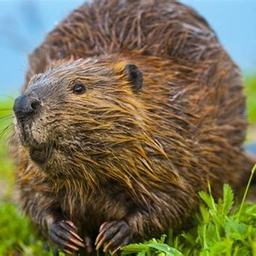
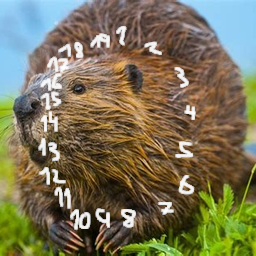
chore: Change generated gif

diff --git a/src/video_generator.cpp b/src/video_generator.cpp
@@ -4,17 +4,19 @@
 
 std::string generate_video(const std::string &f1_path,
                            const std::string &f2_path) {
-  std::string cmd = "ffmpeg -y -loglevel error -nostats "
-                    "-loop 1 -t 7 -i \"" +
-                    f1_path + "\" -i \"" + f2_path +
-                    "\" "
-                    "-filter_complex "
-                    "\"[0:v]rotate='if(lte(t,7),2*PI*t*(1-t/10),2*PI*7*(1-7/"
-                    "10))':c=none:ow=rotw(iw):oh=roth(ih)[r];"
-                    "[r][1:v]overlay=(W-w)/2:(H-h)/2,split=2[s0][s1];"
-                    "[s0]palettegen=stats_mode=diff[p];"
-                    "[s1][p]paletteuse\" "
-                    "-f gif -";
+
+  std::string cmd =
+      "ffmpeg -y -loglevel error -nostats "
+      "-loop 1 -t 8 -i \"" +
+      f1_path + "\" -i \"" + f2_path +
+      "\" "
+      "-filter_complex "
+      "\"[0:v]rotate='2*PI*min(t,7)*(1-min(t,7)/"
+      "14)':c=none:ow=rotw(iw):oh=roth(ih)[r];"
+      "[r][1:v]overlay=(W-w)/2:(H-h)/2,fps=15,scale=480:-2,split=2[s0][s1];"
+      "[s0]palettegen=max_colors=64[p];"
+      "[s1][p]paletteuse=dither=none\" "
+      "-f gif -";
 
   FILE *pipe = popen(cmd.c_str(), "r");
   if (!pipe) {

diff --git a/src/main.cpp b/src/main.cpp
@@ -75,7 +75,7 @@ int main() {
 
       event.thinking(false, [event, &db, user_id, spent, color](
                                 const dpp::confirmation_callback_t &callback) {
-        const int rnd = bounded_rand(100);
+        const int rnd = bounded_rand(99) + 1;
         const Color clr = rnd < 50   ? Color::red
                           : rnd > 50 ? Color::black
                                      : Color::green;
@@ -89,13 +89,12 @@ int main() {
 
         const std::string video_bytes =
             generate_video("assets/castor.png", "assets/overlay.png");
-        dpp::message msg(event.command.channel_id, "a");
+        dpp::message msg(event.command.channel_id, "Spinning...");
         msg.add_file("out.gif", video_bytes, "image/gif");
 
         event.edit_original_response(msg);
 
-        // Wait for the gif to play
-        sleep(8);
+        sleep(11);
 
         event.edit_original_response(dpp::message(
             "Ball landed on " + clr_str + ".\nYou " + (won ? "won" : "lost") +
